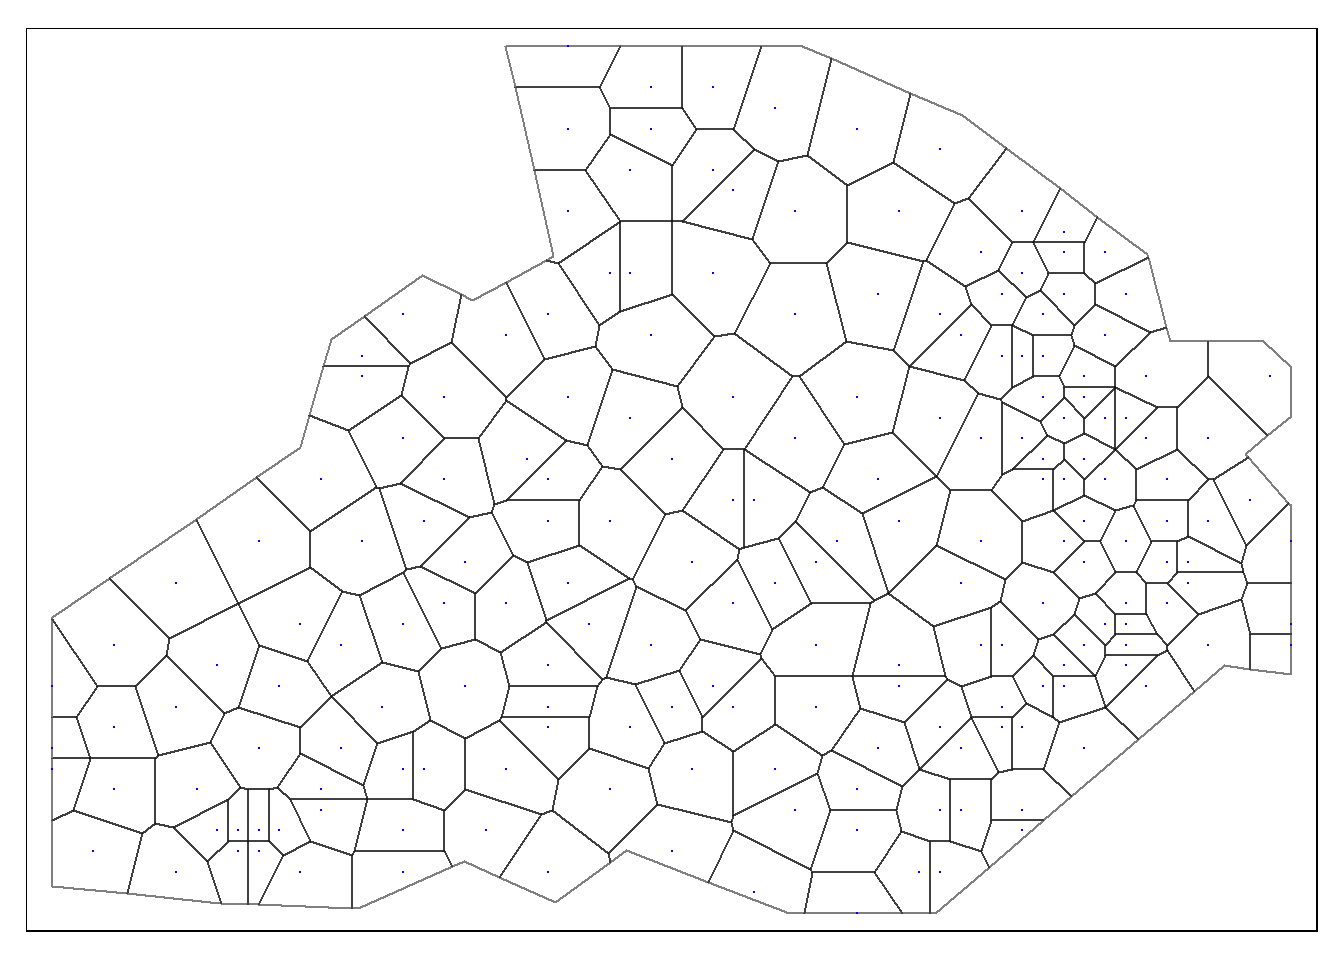
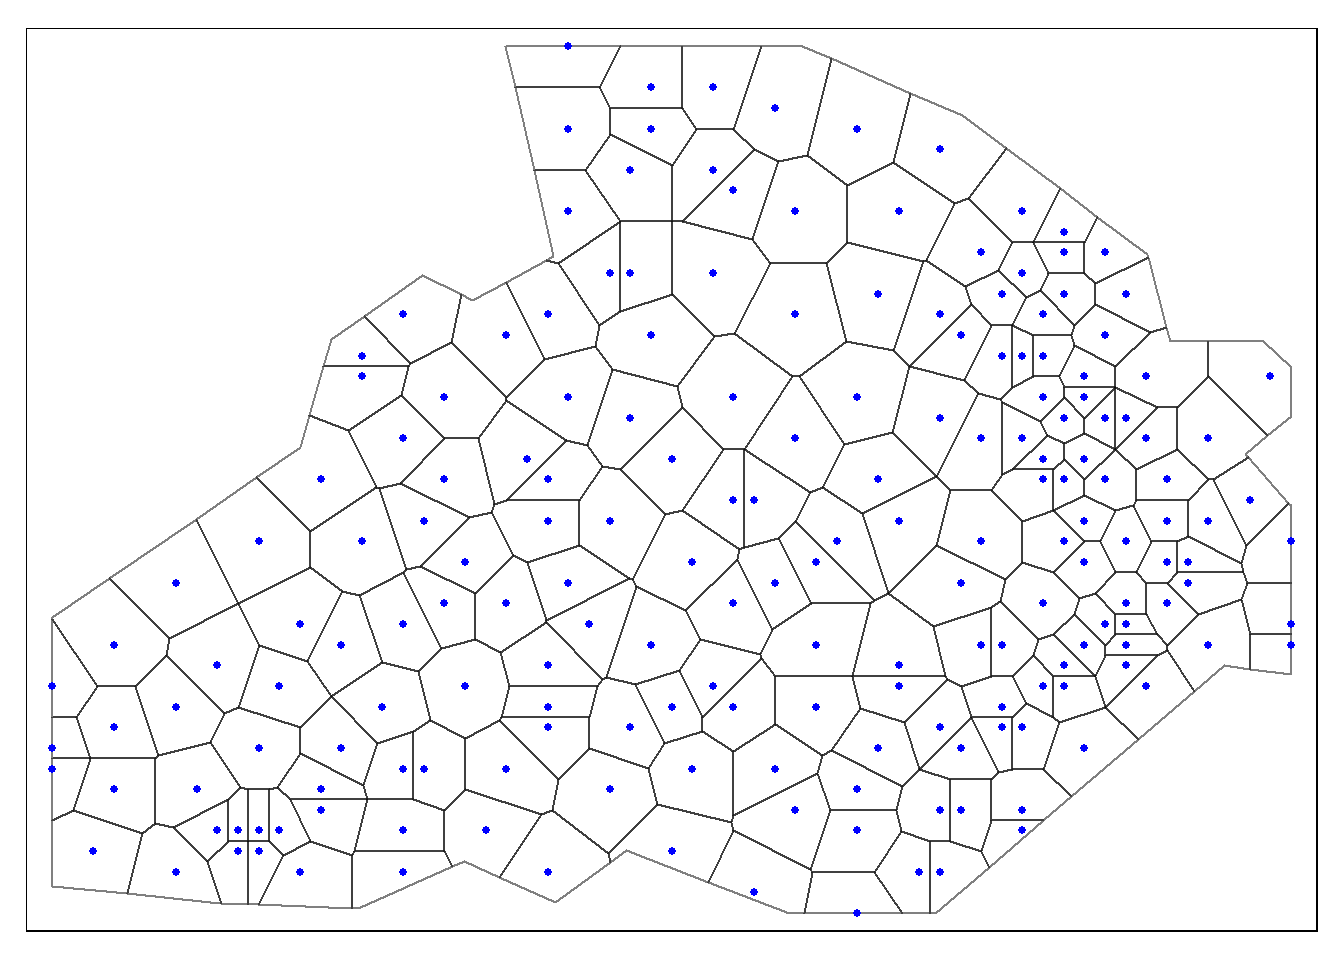
--updates

diff --git a/lesson2.html b/lesson2.html
@@ -422,7 +422,7 @@ plot(dat.pp, pch = 19)</code></pre>
 <pre class="r"><code>int.Z &lt;- over(dat.pp, shp[,&quot;Carbon&quot;], fn=mean, na.rm=TRUE) </code></pre>
 <p>Map Thiessen polygons and Carbon sampled points.</p>
 <pre class="r"><code>tm_shape(dat.pp) +  tm_borders(alpha=.5, col = &quot;black&quot;) +
-  tm_shape(shp) + tm_dots(col = &quot;blue&quot;, scale = 0.5)</code></pre>
+  tm_shape(shp) + tm_dots(col = &quot;blue&quot;, scale = 2)</code></pre>
 <p><img src="lesson2_files/figure-html/n6-1.png" width="672" /></p>
 </div>
 
